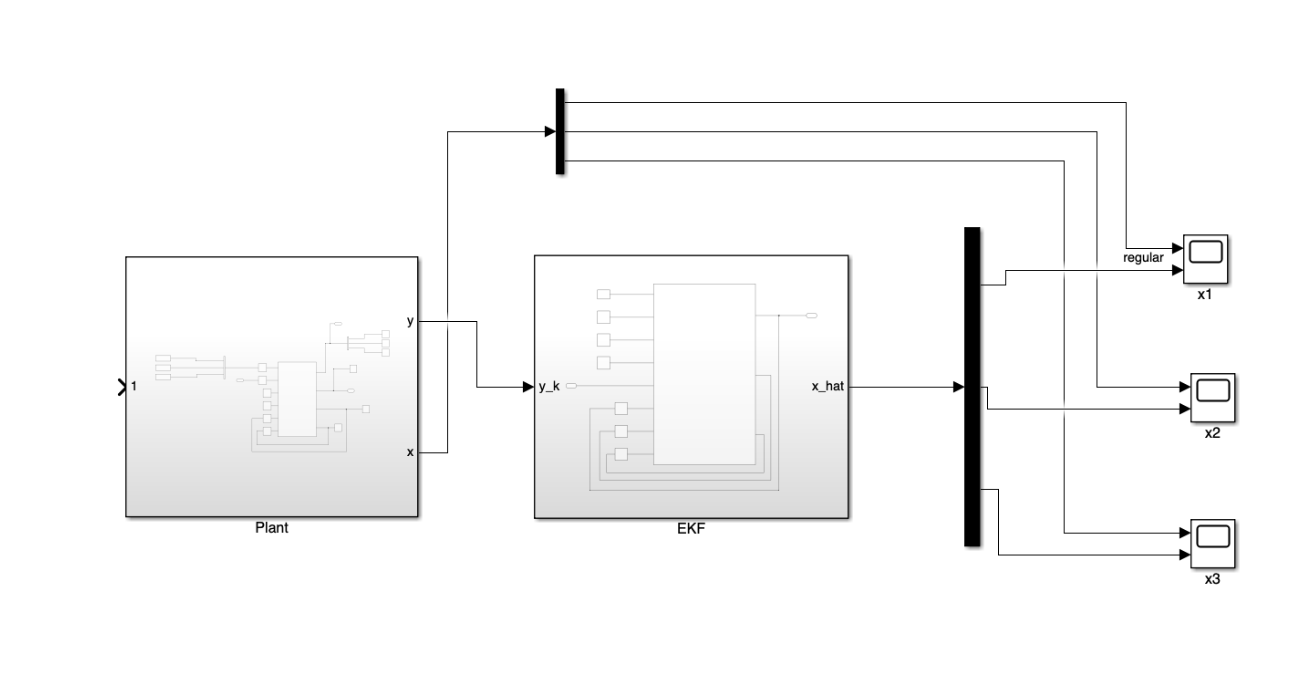
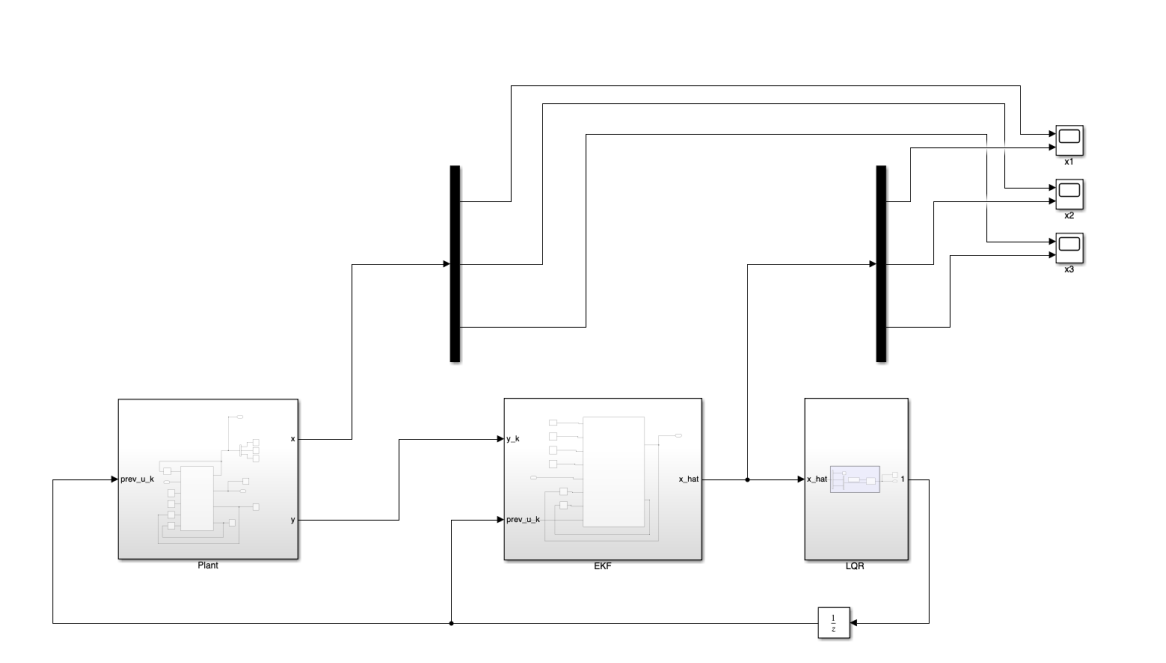
update project files

diff --git a/layouts/_partials/extend_head.html b/layouts/_partials/extend_head.html
@@ -1,0 +1,19 @@
+<link rel="stylesheet" href="https://cdn.jsdelivr.net/npm/katex@0.16.9/dist/katex.min.css" crossorigin="anonymous">
+<script defer src="https://cdn.jsdelivr.net/npm/katex@0.16.9/dist/katex.min.js" crossorigin="anonymous"></script>
+<script defer src="https://cdn.jsdelivr.net/npm/katex@0.16.9/dist/contrib/auto-render.min.js" crossorigin="anonymous"></script>
+<script>
+    document.addEventListener("DOMContentLoaded", function() {
+        if (typeof renderMathInElement === 'function') {
+            renderMathInElement(document.body, {
+                delimiters: [
+                    {left: '$$', right: '$$', display: true},
+                    {left: '$', right: '$', display: false},
+                    {left: '\\(', right: '\\)', display: false},
+                    {left: '\\[', right: '\\]', display: true}
+                ],
+                ignoredTags: ['script', 'noscript', 'style', 'textarea', 'pre', 'code'],
+                throwOnError: false
+            });
+        }
+    });
+</script>

diff --git a/layouts/_partials/home_hero.html b/layouts/_partials/home_hero.html
@@ -14,9 +14,9 @@
         <h1>Hi, I'm Grayson Gilbert</h1>
         <p class="hero-subtitle">Robotics &amp; Embedded Systems Engineer</p>
         <p class="hero-bio">
-            I'm a hardware engineer developing bleeding-edge synthetic aperture sonar 
+            I'm a hardware engineer developing cutting-edge synthetic aperture sonar 
             for autonomous underwater vehicles. I created this portfolio to highlight the technical 
-            foundation I built during my M.Eng. in Robotics (May 2026), alongside the hands-on
+            foundation I built during my Master of Engineering in Robotics graduate program (May 2026), alongside the hands-on
             personal projects I tackle in my free time.
         </p>
         <div class="hero-cta-buttons">

diff --git a/content/projects/ekf-lqr-control.md b/content/projects/ekf-lqr-control.md
@@ -6,22 +6,17 @@ summary: "Recreated and verified an augmented 3-state state-space control framew
 cover:
   image: "images/projects/ekf-lqr/thumbnail.png"
   alt: "Simulink model of nonlinear plant and Extended Kalman Filter state estimator"
-  hiddenInSingle: true
+  hiddenInSingle: false
 weight: 6
 ---
 
-Setting up an optical communication link between underwater robots is tough due to severe signal attenuation and the need for precise alignment. For this project, my partner and I worked to recreate and verify an advanced control framework using a recursive Extended Kalman Filter (EKF) and a Linear Quadratic Regulator (LQR). We engineered the simulation using custom blocks in MATLAB and Simulink. You can find the codebase on [GitHub](https://github.com/GraysonGilbert/ENPM667_Project_1).
-
-<div class="project-figure">
-  <img src="/images/projects/ekf-lqr/ekf-plant-block-diagram.png" alt="Simulink model of nonlinear plant and Extended Kalman Filter state estimator" />
-  <p class="project-caption">The Simulink system architecture, showing the nonlinear optical plant, sensor feedback loop, EKF estimator, and real-time scopes.</p>
-</div>
+Setting up an optical communication link between underwater robots is tough due to severe signal attenuation and the need for precise alignment. For this project, my partner and I worked to recreate and verify an advanced control framework using a recursive Extended Kalman Filter (EKF) and a Linear Quadratic Regulator (LQR). We engineered the simulation using custom blocks in MATLAB and Simulink. You can find the codebase and detailed report on [GitHub](https://github.com/GraysonGilbert/ENPM667_Project_1).
 
 ---
 
 ## Channel Modeling & State Vector Architecture
 
-To accurately simulate an underwater optical link, you have to account for both the physical spread of the beam and how marine water absorbs light.
+To accurately simulate an underwater optical link, you have to account for both the physical spread of the beam and how seawater absorbs light.
 
 ### Optical Channel Physics
 The received signal voltage ($V_d$) is calculated by combining spherical beam spreading (the inverse-square law) with exponential medium attenuation (Beer's Law):
@@ -44,19 +39,9 @@ Adding the angular velocity into the state vector gives the LQR a crucial second
 
 ---
 
-## Simulation & System Realities
-
-We built the system based on the Principle of Separation, testing the EKF estimator and the LQR controller independently before combining them. 
-
-* **EKF Tracking:** The Extended Kalman Filter successfully estimated and tracked the true system values within about two seconds of simulation time.
-* **LQR Control:** Running independently, the LQR successfully drove the angle and velocity states to zero within 20 time steps.
-* **Closed-Loop Challenges:** When we fully closed the loop by feeding the EKF estimates into the LQR, the system oscillated and failed to stabilize. We suspected this was due to an underlying plant modeling issue or the absence of an artificial angle offset term ($\psi_k$) used in the original reference paper to force stability. It was a great practical lesson in how theoretical control loops don't always behave perfectly once integrated.
-
----
-
 ## Observability & The Dual-Measurement Fix
 
-Before relying on an Extended Kalman Filter, my partner and I had to prove the system states were actually observable from the sensor data, as detailed in ENPM667_PROJECT1_Sweeney_Gilbert_2.pdf. 
+Before relying on an Extended Kalman Filter, my partner and I had to prove the system states were actually observable from the sensor data, as detailed in the final report on GitHub. 
 
 ### Single-Measurement Limitation
 
@@ -74,11 +59,58 @@ To fix this without the added cost and complexity of a second physical receiver,
 
 Following the Principle of Separation, we built and tested the EKF and LQR completely independently before attempting to close the loop. 
 
-As the plots show, the standalone EKF successfully filtered the Gaussian measurement noise and locked onto the true system values after about two seconds of simulation time. Running on its own with the known true states, the LQR successfully drove the angle and velocity states to zero within 20 time steps. 
+### Standalone EKF Tracking
+
+The state estimator runs a recursive predict-update cycle, propagating the state and error covariance ahead, computing the optimal Kalman gain from incoming measurements, and updating the estimated states:
+
+<div class="project-figure" style="max-width: 580px; margin: 1.5rem auto;">
+  <img src="/images/projects/ekf-lqr/ekf-alg-flow.png" alt="Extended Kalman Filter recursive algorithm flowchart" />
+  <p class="project-caption">Recursive Extended Kalman Filter cycle: initializing state priors, predicting state and covariance, computing the Kalman gain, incorporating incoming measurements to update the state estimate, and propagating error covariance to the next time step.</p>
+</div>
+
+The standalone EKF successfully filtered the Gaussian measurement noise and locked onto the true system values after about two seconds of simulation time:
+
+<div class="project-gallery-3col">
+  <div class="project-compare-item">
+    <span class="project-compare-label">x1: Power Tracking (Prx)</span>
+    <img src="/images/projects/ekf-lqr/ekf-x1-tracking.png" alt="State x1 tracking plot showing received optical power P_rx convergence" />
+  </div>
+  <div class="project-compare-item">
+    <span class="project-compare-label">x2: Orientation Error (θ)</span>
+    <img src="/images/projects/ekf-lqr/ekf-x2-tracking.png" alt="State x2 tracking plot showing receiver normal angle theta convergence" />
+  </div>
+  <div class="project-compare-item">
+    <span class="project-compare-label">x3: Angular Velocity (θ_dot)</span>
+    <img src="/images/projects/ekf-lqr/ekf-x3-tracking.png" alt="State x3 tracking plot showing actuator angular velocity theta_dot convergence" />
+  </div>
+</div>
+
+### Standalone LQR Regulation
+Running on its own with the known true states, the LQR controller successfully drove the initial angular displacement and angular velocity back to zero within 20 time steps (approximately two seconds):
+
+<div class="project-figure">
+  <img src="/images/projects/ekf-lqr/lqr-control.png" alt="Simulink scope trace showing standalone LQR state regulation" />
+  <p class="project-caption">Standalone LQR response: the controller drives orientation error (x2, blue) and angular velocity (x3, orange) smoothly to zero from initial perturbation, while optical power (x1, yellow) remains stable.</p>
+</div>
+
+---
 
 ## EKF & LQR Implementation
 
 Instead of relying on prebuilt Simulink blocks, which weren't robust enough for this specific setup, we wrote custom MATLAB function blocks for both the plant and the controllers. 
+
+<div class="project-compare-grid">
+  <div class="project-compare-item">
+    <span class="project-compare-label">EKF Estimator Architecture</span>
+    <img src="/images/projects/ekf-lqr/ekf-plant-block-diagram.png" alt="Simulink model of nonlinear plant and Extended Kalman Filter state estimator" />
+  </div>
+  <div class="project-compare-item">
+    <span class="project-compare-label">LQR Controller Architecture</span>
+    <img src="/images/projects/ekf-lqr/lqr-block-diagram.png" alt="Simulink block diagram of standalone LQR state feedback control" />
+  </div>
+</div>
+
+--- 
 
 ## Closed-Loop Troubleshooting & Takeaways
 

diff --git a/content/about.md b/content/about.md
@@ -4,7 +4,7 @@ ShowBreadCrumbs: false
 ShowReadingTime: false
 ---
 
-I am a robotics and embedded systems engineer who loves owning the entire process, from the bare metal to the high-level software. I recently finished my M.Eng. in Robotics (May 2026) while working full-time as a hardware engineer developing synthetic aperture sonar for autonomous underwater vehicles. My work spans everything from writing C++ navigation pipelines to designing, building, integrating, and operating physical hardware.
+I am a robotics and embedded systems engineer who loves owning the entire process, from the bare metal to the high-level software. I finished my Master of Engineering in Robotics in May 2026 while working full-time as a hardware engineer developing synthetic aperture sonar for autonomous underwater vehicles. My work spans everything from writing C++ navigation pipelines to designing, building, integrating, and operating physical hardware.
 
 ### What I Do
 I enjoy working with autonomous systems and understanding the full hardware-software stack. My core technical areas include:
@@ -15,4 +15,4 @@ I enjoy working with autonomous systems and understanding the full hardware-soft
 
 - **Mechanical Design & Mechatronics:** Leveraging my mechanical design background, I love bringing physical systems to life through hands-on fabrication and building end-to-end mechatronics projects.
 
-I built this site to showcase the hardware and software projects that keep me busy outside of my day job. Feel free to explore my work, or drop me a message if you'd like to connect.
+I built this site to showcase the hardware and software projects that keep me busy outside of my day job. Feel free to explore my work, or send me a message if you'd like to connect.

diff --git a/content/skills.md b/content/skills.md
@@ -16,7 +16,7 @@ ShowReadingTime: false
     <div class="edu-school">University of Maryland, College Park</div>
     <div class="edu-year">May 2026</div>
     <div class="edu-detail">GPA: 4.0</div>
-    <div class="edu-detail">Coursework: Robot Motion Planning, State Estimation, Reinforcement Learning, Embedded Systems, Computer Vision</div>
+    <div class="edu-detail">Coursework: Robot Motion Planning, State Estimation, Path Planning, Machine Learning, Computer Vision, Software Engineering</div>
 </div>
 
 <div class="edu-card">
@@ -104,7 +104,7 @@ ShowReadingTime: false
 <div class="exp-item">
     <div class="exp-header">
         <div>
-            <div class="exp-role">Pricipal Systems Engineer</div>
+            <div class="exp-role">Principal Systems Engineer</div>
             <div class="exp-org">Northrop Grumman, Dolphinworks Sonar Development Lab</div>
         </div>
         <div class="exp-date">April 2024 – Present</div>

diff --git a/content/projects/barista-robot.md b/content/projects/barista-robot.md
@@ -65,7 +65,7 @@ I designed the workcell in a circle around a central pedestal-mounted UR10e arm.
   </div>
 </div>
 
--## Kinematic Modeling & Resolved-Rate Cartesian Control
+## Kinematic Modeling & Resolved-Rate Cartesian Control
 
 ### Forward Kinematics
 
